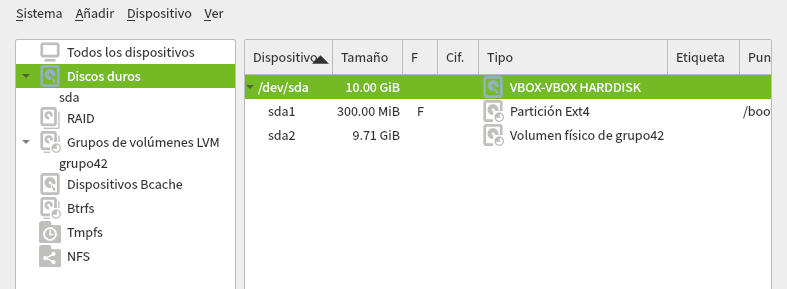
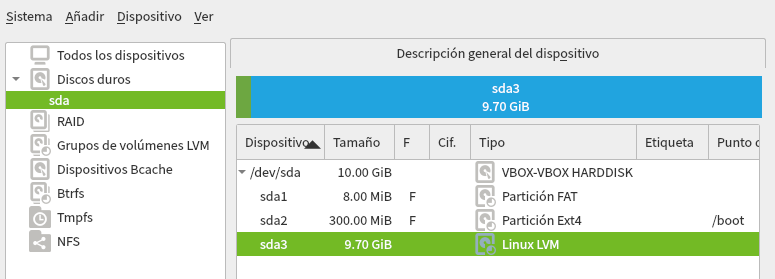
U opensuse lvm BIOS legacy

diff --git a/actividades/sistemas.2/raid-lvm/lvm-opensuse-windows.md b/actividades/sistemas.2/raid-lvm/lvm-opensuse-windows.md
@@ -33,7 +33,7 @@ Realizar las siguientes tareas:
 * Comenzar a instalar el sistema operativo.
 * ¿Activar repositorios en línea? NO
 * Escritorio: XFCE
-* **OJO: Parar al llegar al particionado**.
+* OJO: Parar al llegar al particionado.
 
 ## 1.2 Creando los volúmenes físicos (particiones y discos)
 
@@ -43,8 +43,9 @@ Realizar las siguientes tareas:
 | ----------- | ---- | ------- | ----------------------- | ------- | ---------------- |
 | EFI-BIOS    | 1 | 300 MiB | Sistema de arranque EFI | FAT     | /boot/efi        |
 |             | 2 | Resto   | Volúmen sin procesar    | (Linux LVM) | -            |
-| BIOS legacy | 1 | 300 MiB | Sistema operativo       | ext4    | /boot            |
-|             | 2 | Resto   | Volúmen sin procesar    | (Linux LVM) | -            |
+| BIOS legacy | 1 | 8 MiB | Arranque BIOS       | FAT4    |           |
+| BIOS legacy | 2 | 300 MiB | Sistema operativo       | ext4    | /boot            |
+|             | 3 | Resto   | Volúmen sin procesar    | (Linux LVM) | -            |
 
 ![](images/opensuse-lvm-volumenes-fisicos.png)
 
@@ -52,13 +53,16 @@ Realizar las siguientes tareas:
 
 * Ir a la gestión de volúmenes (LVM).
 * Crear un grupo de volumen llamado `grupoXX` que coja el disco disponible. Donde XX es el número asociado a cada alumno.
+
+![](images/opensuse-lvm-grupo-logico.png)
+
 * Crear los siguientes volúmenes lógicos (LV) dentro del `grupoXX`:
 
 | Nombre    | Tamaño  | Tipo                | Formato | Montar |
 | --------- | ------- | ------------------- | ------- | ------ |
 | volXXswap | 500 MiB | Area de intercambio | swap    | -      |
 | volXXssoo | 8 GiB   | Sistema operativo   | ext4    | /      |
-| volXXhome | 100 MiB | Datos de usuario    | ext3    | /home  |
+| volXXhome | 100 MiB | Datos de usuario    | xfs     | /home  |
 
 ![](images/opensuse-lvm-volumenes-logicos.png)
 
@@ -67,8 +71,14 @@ Vemos que nos ha sobrado espacio. Lo dejamos así porque lo usaremos más adelan
 Por la experiencia de instalaciones previas de OpenSUSE con entorno gráfico, ya sabemos que el espacio en disco se nos va a quedar pequeño enseguida. Cuando se nos llene el espacio del sistema, vamos a hacer uso de los volúmenes (LVM) para ampliarlo sin necesidad de reinstalar el sistema.
 
 * Seguimos con la instalación del sistema operativo.
+* En configuración de la instalación:
+    * Habilitar servicio SSH y Abrir puerto SSH.
 * Reiniciamos el sistema y seguimos.
 
+Si no puedes entrar al sistema o no se inicia correctamente...
+1. Repasa bien los pasos anteriores y volver a hacer.
+2. Si sigues con problemas, llama a alguien que se siente al lado y le vas contando en voz alta los pasos mientras lo vuelves a repetir para que te des cuenta de dónde has tenido el fallo.
+3. ¡Uff!... espero que no lleguemos a este punto...
 
 ## 1.4 Comprobación de la instalación con volúmenes (LVM)
 
